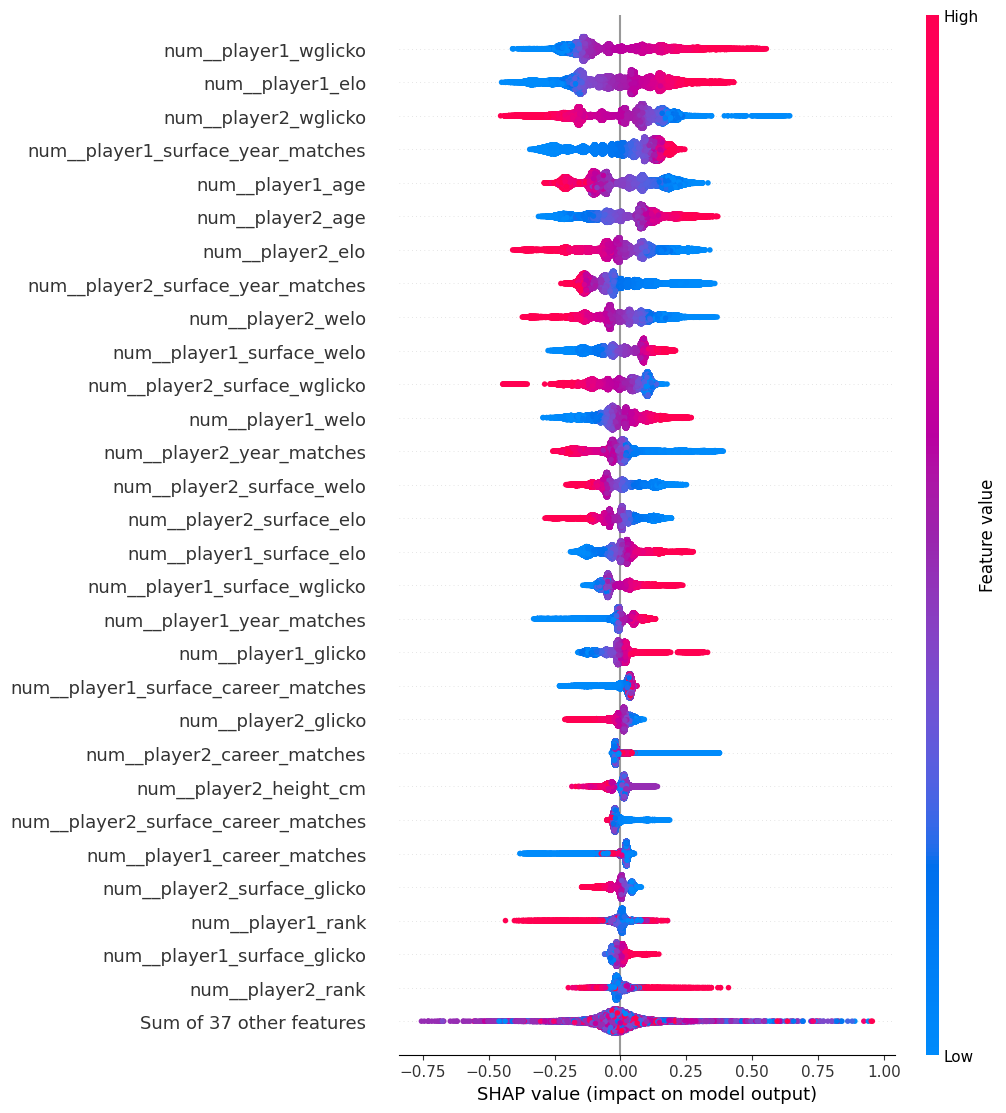
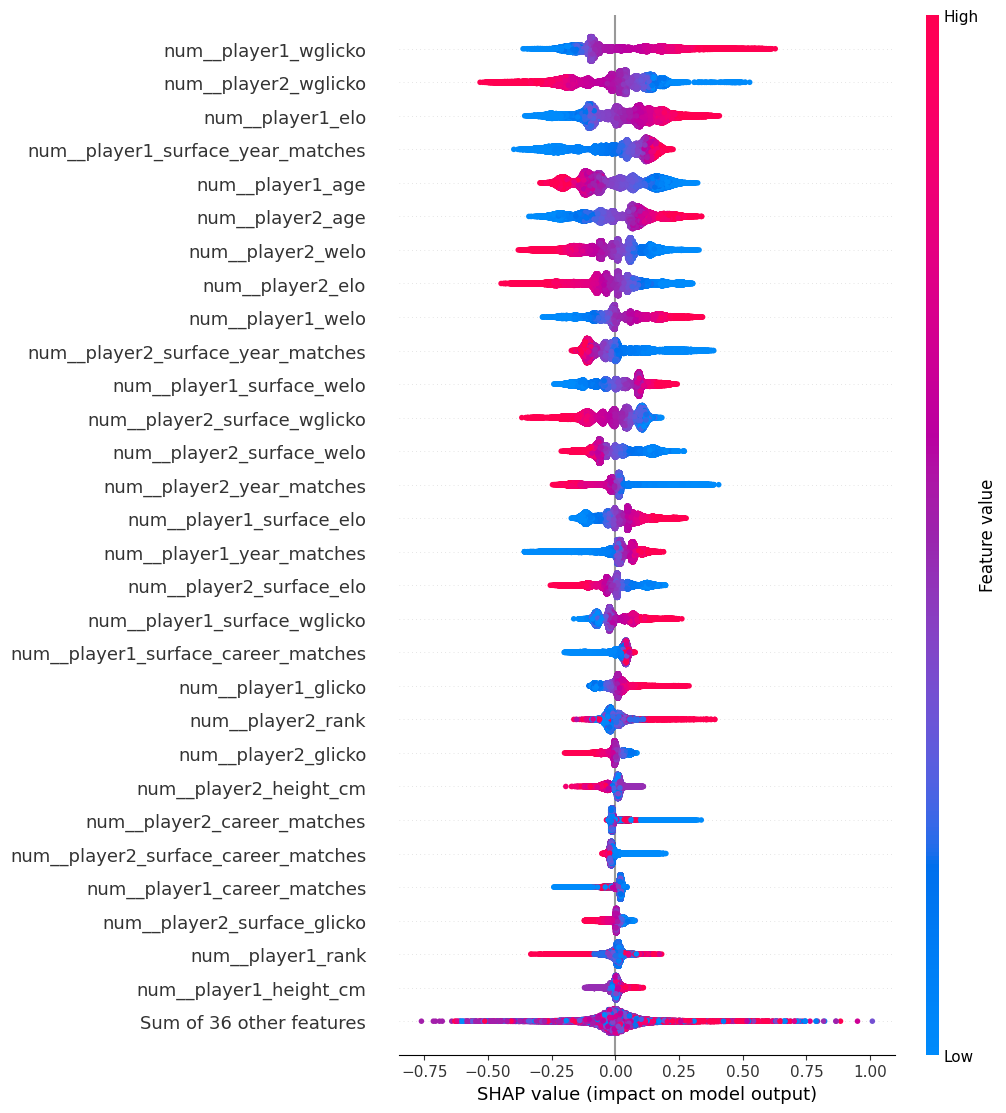
report: minor improvements to results chapter

diff --git a/report/main.tex b/report/main.tex
@@ -618,6 +618,7 @@ refit the model on the full training set. The held-out $20\,\%$ test was then us
 classification performance.
 
 \subsection{Supervised Machine Learning Models}
+\label{sec:supervised-machine-learning-models}
 
 The following supervised machine learning models were trained and evaluated using a common
 framework. Together they span several tree-based classifiers, gradient boosting and bagging
@@ -700,8 +701,9 @@ Notebook\footnote{\url{https://github.com/scarvalhojr/tennispredictor/blob/main/
 
 \subsection{Model performance on the held-out test subset}
 
-All supervised models were initially compared on the same held-out test subset of $37{,}875$
-matches (20\% of the dataset). Table~\ref{tab:model-performance-test} lists the results with the
+After the grid search found the best hyperparameters for each model, all models were evaluated on
+the same held-out test subset of $37{,}875$ matches (20\% of the full dataset), as explained in
+Section~\ref{sec:data-preparation}. Table~\ref{tab:model-performance-test} lists the results with
 several performance metrics: absolute accuracy; weighted precision, recall and F1 score; ROC--AUC;
 Brier score; and log-loss.
 
@@ -712,7 +714,7 @@ Brier score; and log-loss.
   \vspace{0.75em}
   \begin{tabular}{lccccccc}
     \toprule
-    \textbf{Model} & \textbf{Acc.} & \textbf{Prec.} & \textbf{Rec.} & \textbf{F1} & \textbf{ROC--AUC} & \textbf{Brier} & \textbf{Log-loss} \\
+    \textbf{Model} & \textbf{Accuracy} & \textbf{Precision} & \textbf{Recall} & \textbf{F1} & \textbf{ROC--AUC} & \textbf{Brier} & \textbf{Log-loss} \\
     \midrule
     CatBoost      & 0.6997 & 0.6998 & 0.6997 & 0.6997 & 0.7723 & 0.1941 & 0.5687 \\
     XGBoost       & 0.6985 & 0.6985 & 0.6985 & 0.6985 & 0.7716 & 0.1944 & 0.5696 \\
@@ -728,23 +730,31 @@ Brier score; and log-loss.
 Differences between models are only modest: gradient-boosted trees (CatBoost, then XGBoost) achieve
 the highest accuracy and best probability scores (lowest Brier and log-loss). The other models trail
 slightly but remain competitive, suggesting that much of the predictive signal is already captured
-by the engineered tabular features rather than by a particular inductive bias alone. All models
-report close to 70\% accuracy, in line with previous results in the literature, in particular those
-reported by \textcite{williams_2021}. The fact that all models perform similarly also replicates
-the findings in the literature, including those of \textcite{williams_2021} and \textcite{yue_2022}.
+by the engineered tabular features rather than by a particular inductive bias alone. Despite several
+efforts to tune the hyperparameters of the models, they all seemed to hit a ceiling of accuracy
+around 70\%, which is in line with observations in the literature for similar datasets, in
+particular those reported by \textcite{williams_2021}. The fact that different machine models
+perform similarly was also noted by \textcite{williams_2021} and \textcite{yue_2022}. In general,
+the results are satisfactory given that most of the features are somewhat related to one another ---
+e.g. players with higher ATP rankings tend to have higher Elo and Glicko ratings, higher win rates,
+and so on. The Brier score of all models were below 0.2, and the log-loss was below 0.58, both of
+which can be considered good scores and are comparable with most of the results reported in the
+literature.
 
 \subsection{Retraining models on the full dataset}
 
 In order to do a more comprehensive and fair comparison of the classification performance of all
 models, they were retrained on the full dataset of 189{,}373 matches using a 10-fold
-cross-validation approach using the best hyperparameters found in the previous section.
+cross-validation approach (with shuffling) using the best hyperparameters found in the previous
+section.
 Figure~\ref{fig:model-performance-full} shows the accuracy of predictions by year from all models
-on the full dataset. The chart shows that all models perform fairly similarly, and that the
+on the full dataset. The chart shows that all models perform similarly, and that the
 accuracy of predictions varies between years in a way that resembles how the predicitive power of
-the ATP ranking, Elo and Glicko ratings were shown to vary over time in
-Figure~\ref{fig:favourite-wins-per-year}. This also suggests that datasets restricted to specific
-years can produce vastly different results, which may explain some of the better results found
-in the literature.
+the ATP ranking, Elo and Glicko ratings were shown to vary over time (in
+Figure~\ref{fig:favourite-wins-per-year}). The significant variation in accuracy over time also
+suggests that datasets restricted to specific
+years can produce vastly different results, which may explain some of the better performing models
+reported in the literature.
 
 \begin{figure}[ht!]
   \centering
@@ -755,22 +765,21 @@ in the literature.
   \label{fig:model-performance-full}
 \end{figure}
 
-Some of the better results reported in the literature were not only restricted to certain years but
-also focused on Grand Slam matches only, so it is interesting to see how the accuracy of the models
+Given that many results reported in the literature were restricted Grand Slam matches, it is
+interesting to see how the accuracy of the models
 reported here perform on this type of tournament.
 Figure~\ref{fig:catboost-accuracy-per-tournament-level} shows the accuracy by year of the best
 performing model (CatBoost) for different tournament levels (all other models produced similar
-results). It is clear that the accuracy is higher on Grand Slam matches but also on matches from the
-Davis Cup. The higher accuracy on Grand Slam matches may be explained by the fact that these matches
-are played in best-of-5 sets format on the ATP Tour, which is less likely to result in the favourite
-player losing the match (the underdog needs to win three sets, rather than just two, agains the
-better player). This might also explain the higher accuracy on matches from the Davis Cup, which
-had, up to 2018, a large number of matches played in best-of-five format. In the case of Davis Cup,
-another factor might explain the higher accuracy: the fact that many matches in the earlier rounds
-of the competition tend to involve lower-ranked players from less established nations in the tennis
-circuit, so often the favourite player is far superior to the opponent. The wild variation in
-accuracy for the ATP Finals is probably due to the fact that this tournament only has a few matches
-per year, so the accuracy is more susceptible to random variation.
+results). It is clear that the accuracy is higher on Grand Slam matches and also on Davis Cup
+matches. This may be explained by the fact that, unlike other tournaments on the ATP Tour, all
+all Grand Slam matches and a large proportion of Davis Cup matches prior to 2018 were played in
+best-of-five sets format, which is less likely to result in the favourite player losing the match
+(the underdog needs to win three sets, rather than just two, against the favourite player).
+Another factor might also contribute to the higher accuracy on Davis Cup matches: many matches in
+the earlier rounds of the competition tend to involve much lower-ranked players from less
+established nations in the tennis circuit, so often the favourite player is far superior to the
+opponent. Finally, the wider variation in accuracy for the ATP Finals is due to the fact that this
+tournament only has a few matches per year, so the accuracy is more susceptible to random variation.
 
 \begin{figure}[ht!]
   \centering
@@ -781,12 +790,13 @@ per year, so the accuracy is more susceptible to random variation.
 \end{figure}
 
 Figure~\ref{fig:catboost-accuracy-per-match-format} confirms the generally higher accuracy of
-predictions on matches played in best-of-5 versus best-of-3 format (results from the CatBoos model,
-but all other models produced similar results). Finally,
-Figure~\ref{fig:catboost-accuracy-per-surface} (again, results from the CatBoost model)
-does not show any significant difference in accuracy between different court surfaces, other than
-perhaps a slightly wider range of accuracy on grass courts that may be explained by the fact that
-there are far fewer tournaments on grass courts than on other surfaces.
+predictions on matches played in best-of-five versus best-of-three format (results from the CatBoost
+model only, but all other models produced similar results). Finally,
+Figure~\ref{fig:catboost-accuracy-per-surface} (again, results from the CatBoost model only)
+does not show any significant difference in accuracy between matches played on different court
+surfaces, other than
+perhaps a slightly wider range of accuracy on grass courts that can be explained by the fact that
+there are fewer tournaments on grass courts than on other surfaces in the calendar year.
 
 \begin{figure}[ht!]
   \centering
@@ -806,20 +816,21 @@ there are far fewer tournaments on grass courts than on other surfaces.
 
 \subsection{Shapley values}
 
-In order to understand the contribution of each feature to the predictions of the models, Shapley
+Shapley
 values were calculated for each model --- these values are a measure of the contribution of each
 feature to the prediction of a model as well as the directionality of the impact they have on the
 predictions. They are calculated by subtracting the average prediction of the model from the
 prediction of the model when the feature is set to its mean value.
 Figure~\ref{fig:shapley-values-catboost} shows the top features in the dataset and how they impact
-the output of the CatBoost model. Features are ordered by the absolute value of their Shapley
-values so the most important features appear at the top. It is interesting to see that the 16 Elo
-and Glicko ratings from both players (32 features in total) appear among the most important
-features, and most have higher impact than the ATP ranking positions. The ATP ranking points as well
-as head-to-head tallies do not appear in the plot so they are considered less important by the
-model. Other important features are the number of matches played and win rates (overall and
-surface-specific, career and last year results). Somewhat surprisingly, features with the players'
-age and height appear quite prominently in the plot.
+the output of the CatBoost model. Features are ordered so the most important features appear at the
+top. Colours indicate the feature values (higher values in red, lower values in blue) and the
+direction of the impact they have on the predictions (player 2 winning to the left, player 1 winning
+to the right). It is interesting to see that the 8 Elo and 7 Glicko ratings appear among the most
+important features, and most are considered more important than the ATP ranking positions. The ATP
+ranking points as well as head-to-head tallies do not appear in the plot so they are considered less
+important by the model. Other important features are the number of matches played (overall and
+surface-specific, career and last year counts). Somewhat surprisingly, the players' ages appear
+quite prominently in the plot.
 
 \begin{figure}[ht!]
   \centering
@@ -828,6 +839,22 @@ age and height appear quite prominently in the plot.
   \vspace{1em}
   \includegraphics[width=\linewidth]{images/shapley_values_catboost.png}
   \label{fig:shapley-values-catboost}
+\end{figure}
+
+Figure~\ref{fig:shapley-values-grouped-catboost} shows a different view of the Shapley values,
+grouping simmetrical features from both players (\texttt{player1} and \texttt{player2}) into a
+single value (\texttt{playerX}), once again ordered by the group's combined Shapley value, with the
+most important ones appearing at the top. The plot largely confirms the findings of the previous
+plot, although some changes are noticeable; for instance, the players' ages are even higher in the
+grouped plot.
+
+\begin{figure}[ht!]
+  \centering
+  \caption{A bar chart showing how the top grouped features in a dataset impact the CatBoost model
+    output (most important features first).}
+  \vspace{1em}
+  \includegraphics[width=\linewidth]{images/shapley_values_grouped_catboost.png}
+  \label{fig:shapley-values-grouped-catboost}
 \end{figure}
 
 